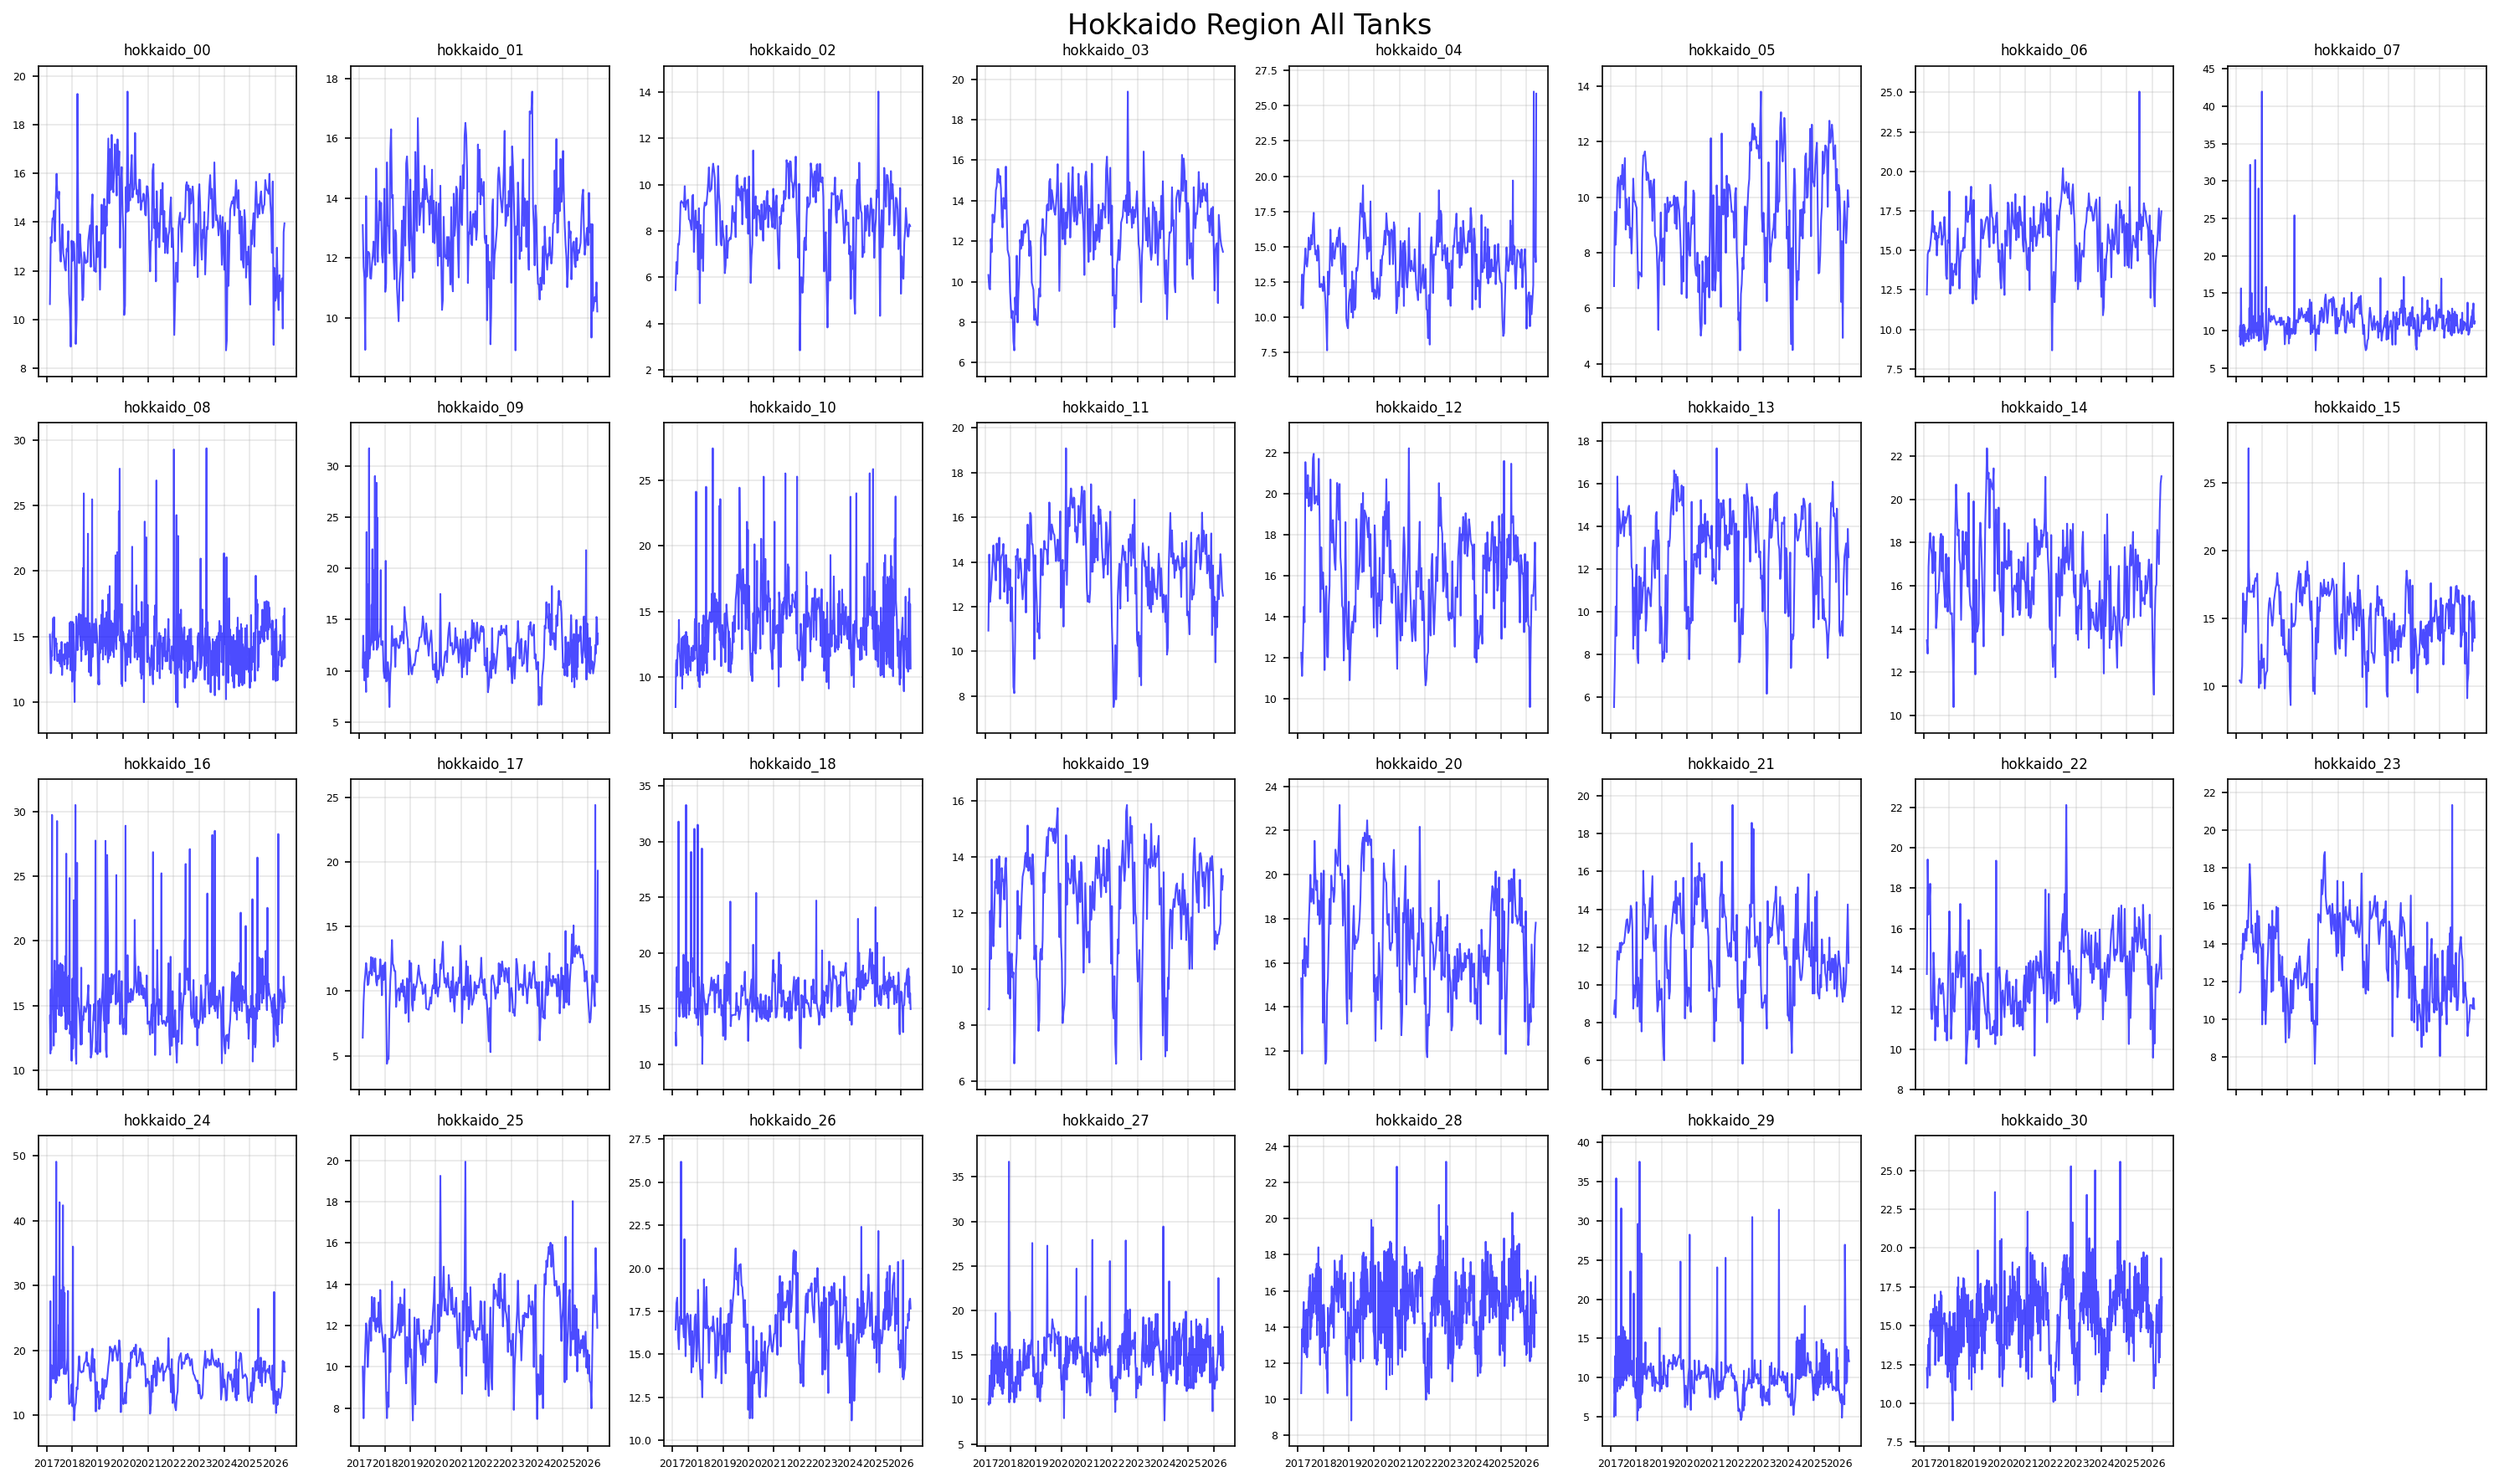
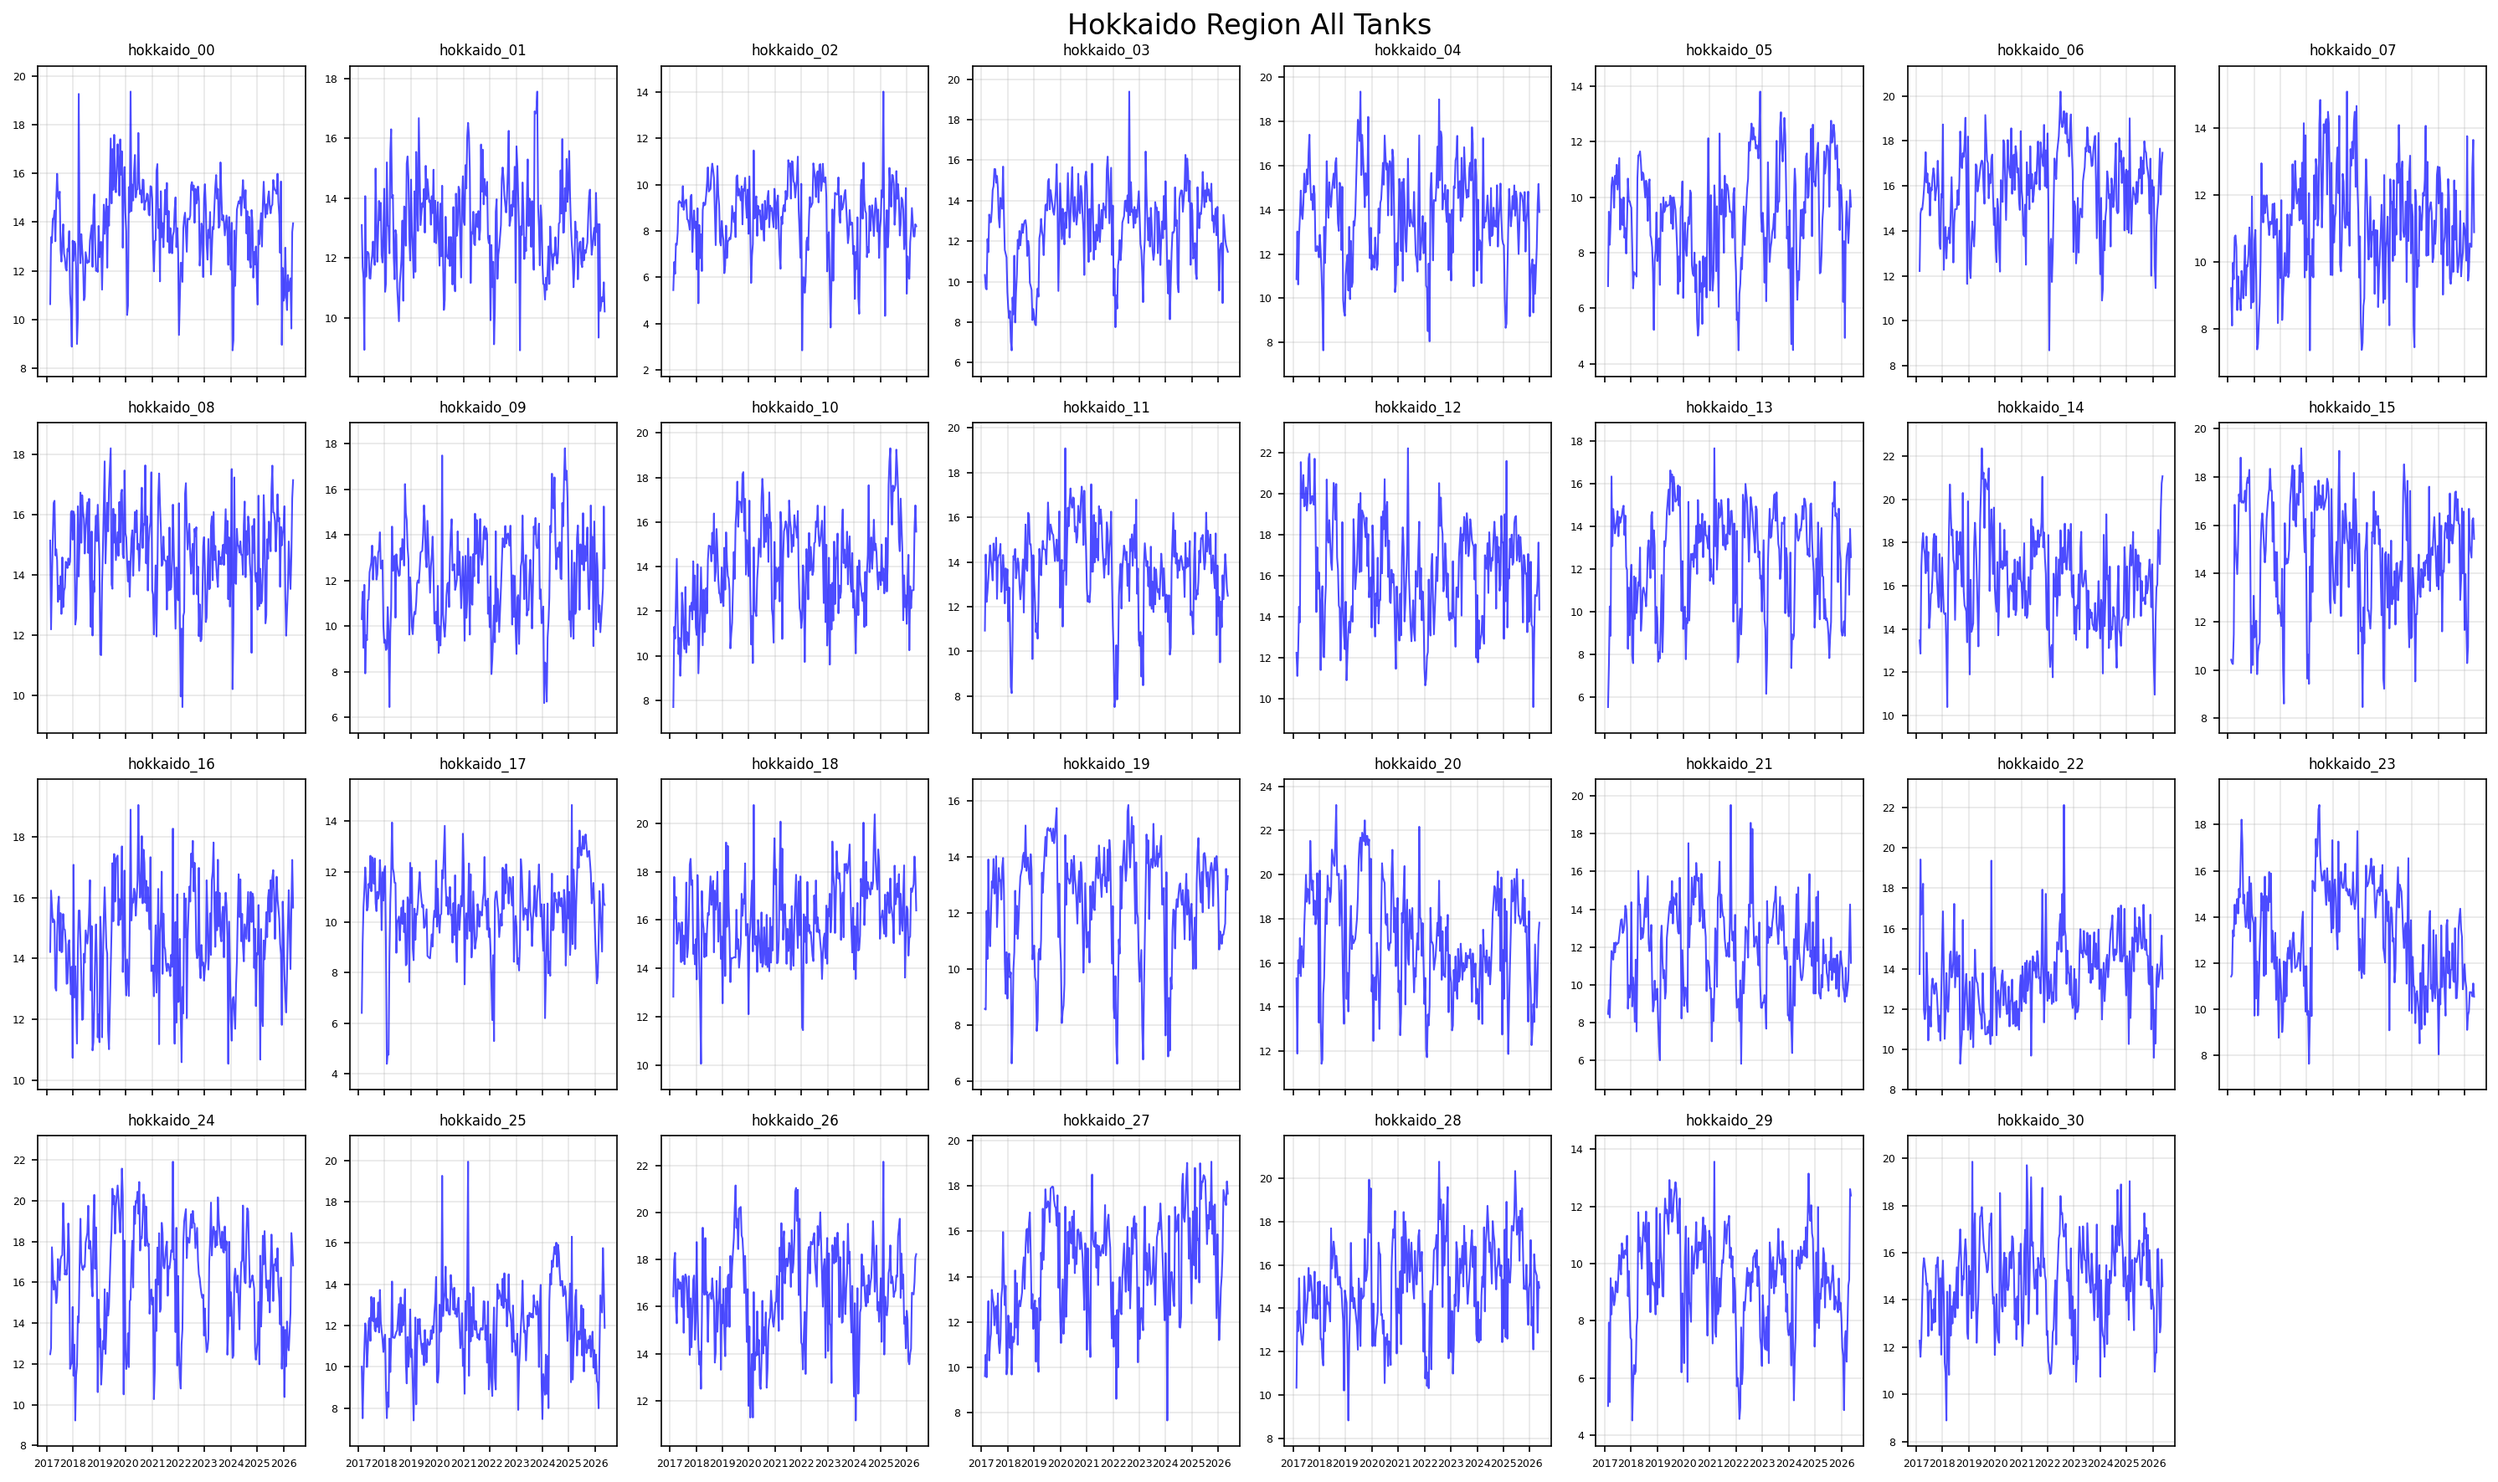
mod: プロットスクリプト修正
- angleによるプロット対象限定（<38）
- 移動平均window=5, 10の追加

diff --git a/src/plot_tanks.py b/src/plot_tanks.py
@@ -13,6 +13,8 @@ def load_tank_data(csv_path):
         raise FileNotFoundError(f"CSV file not found: {csv_path}")
 
     df = pd.read_csv(csv_path)
+    if 'angle' in df.columns:
+        df = df[df['angle'] < 38]
     df['date'] = pd.to_datetime(df['date'])
     df['tank_id'] = df['tank_id'].astype(str)
 
@@ -177,6 +179,8 @@ def plot_region_average(df, region, indicator, output_path=None, remove_outliers
     if remove_outliers and len(daily_avg) > 4:
         daily_avg = remove_outliers_iqr(daily_avg, indicator)
     ax1.plot(daily_avg['date'], daily_avg[indicator], 'b-', linewidth=2, label=f'Average {indicator}')
+    ax1.plot(daily_avg['date'], daily_avg[indicator].rolling(window=5, center=False, min_periods=1).mean(), 'r-', linewidth=1, label=f'rolling win=5 {indicator}')
+    ax1.plot(daily_avg['date'], daily_avg[indicator].rolling(window=10, center=False, min_periods=1).mean(), 'g-', linewidth=1, label=f'rolling win=10 {indicator}')
     change_points = daily_avg[daily_avg['is_change_point']]
     if not change_points.empty:
         ax1.scatter(change_points['date'], change_points[indicator], color='red', s=50, zorder=5, label='Change Point Detected')
